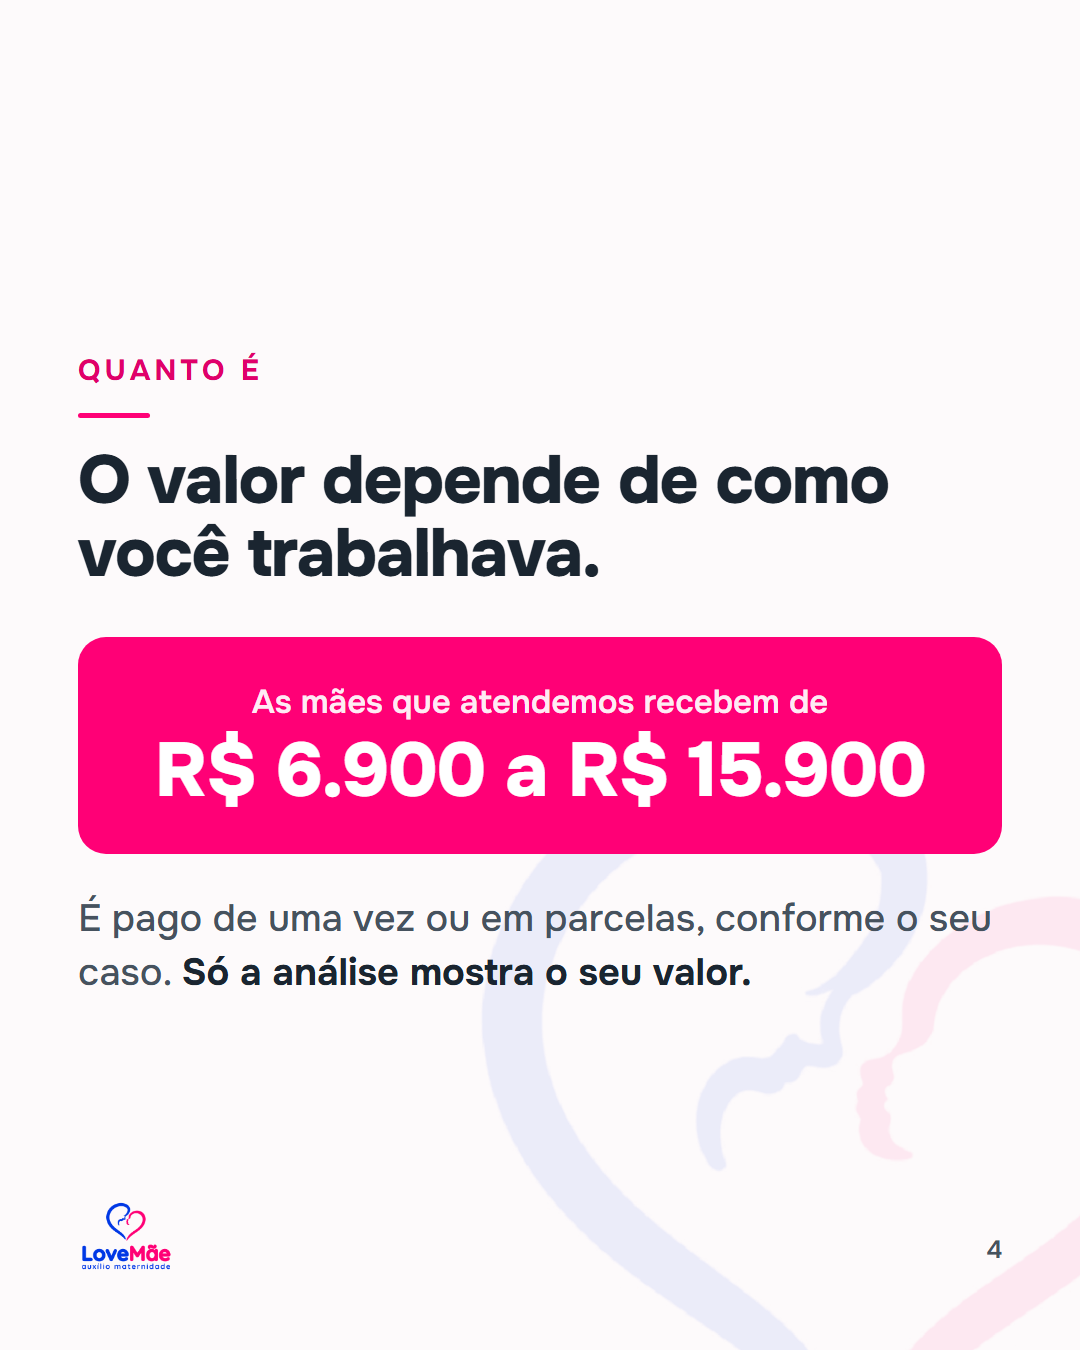
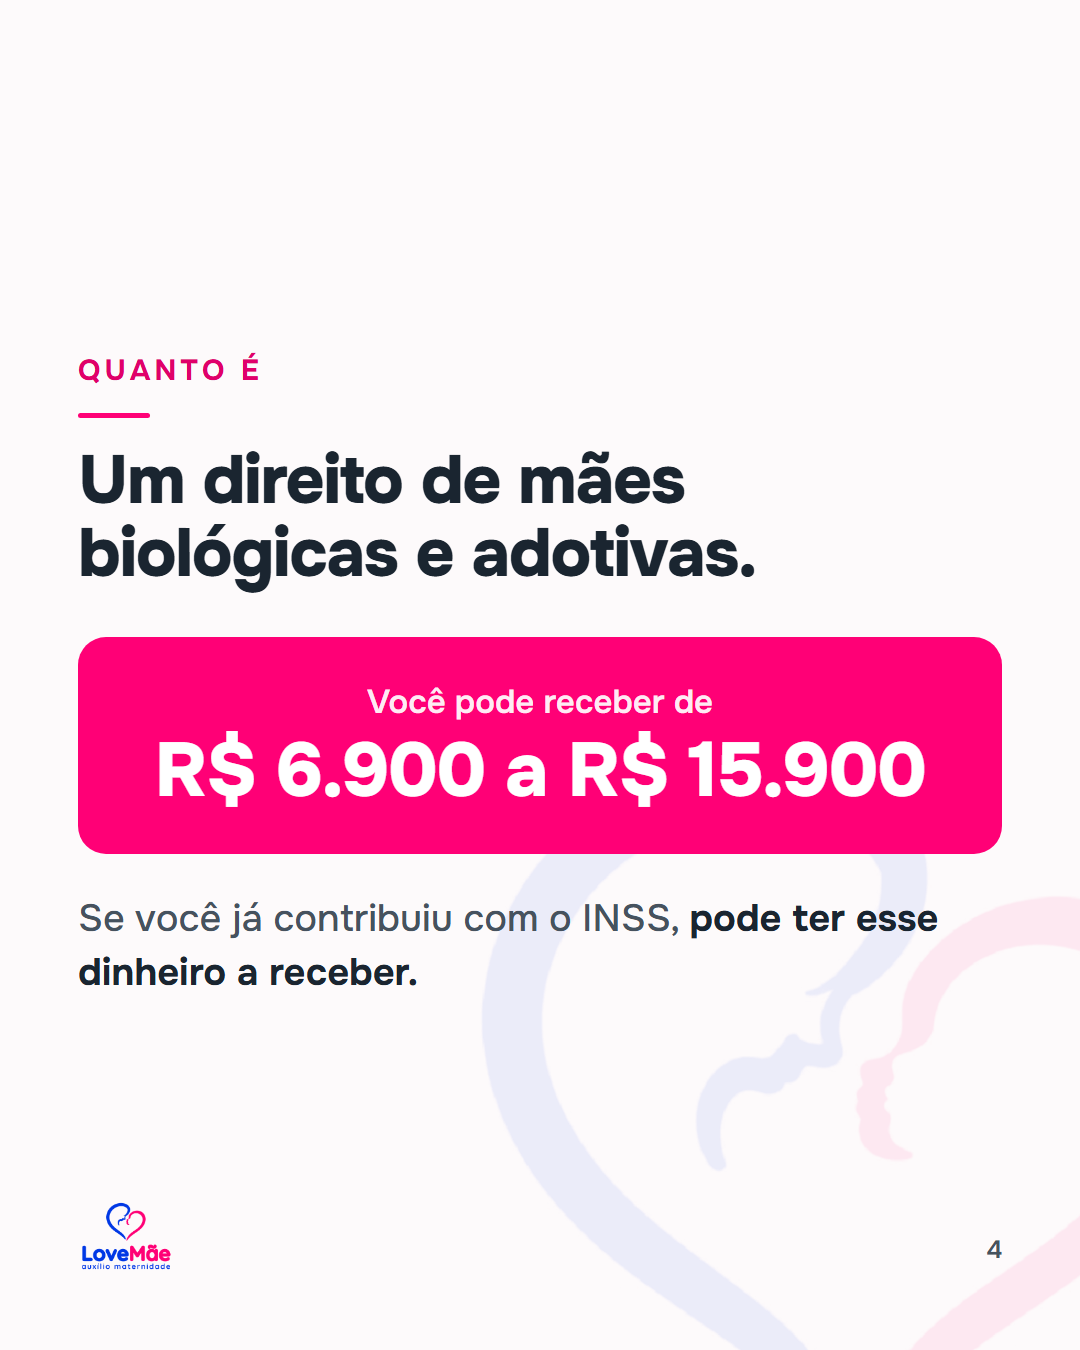
trilogia: capa rosa nos 3, copy revisada do carrossel 1 e variações do coração de fundo

Changed region(s): [[0.0611, 0.6533, 0.9167, 0.7467], [0.0611, 0.3111, 0.825, 0.4356], [0.2139, 0.4978, 0.7639, 0.5289]]

diff --git a/marketing/conteudo/carrossel-o-que-e-2026-09-17/legenda.md b/marketing/conteudo/carrossel-o-que-e-2026-09-17/legenda.md
@@ -1,7 +1,7 @@
 # Carrossel 1 da trilogia — "O que é o auxílio-maternidade?"
 
 Produzido em 17/09/2026. Post **fixado** no topo do perfil.
-5 slides, 1080×1350. Duas versões de capa (rosa e azul) — escolher uma antes de publicar.
+5 slides, 1080×1350. Capa rosa (decisão de 17/09/2026).
 
 ⚠ **Antes de publicar:** o time de operação precisa conferir as regras citadas
 (parto, adoção, guarda judicial, perda gestacional e a faixa de valor).
@@ -12,16 +12,11 @@ Você sabe o que é o auxílio-maternidade? 💗
 
 É um pagamento do INSS pra você poder cuidar do seu bebê sem perder a renda. Simples assim.
 
-Mas muita mãe só descobre esse direito quando já passou do prazo — e é justamente isso que a gente quer evitar.
+Ele garante a proteção e a estabilidade financeira que a sua família precisa nesse momento tão especial — pra você focar no seu bebê com a renda protegida.
 
-Ele vale para:
-✔ parto
-✔ adoção ou guarda judicial
-✔ casos de perda gestacional
+Mas muita mãe só descobre esse direito quando já passou do prazo, e é justamente isso que a gente quer evitar.
 
-E não é só pra quem está grávida agora: se o seu bebê já nasceu, você ainda pode ter direito.
-
-As mães que atendemos recebem de R$ 6.900 a R$ 15.900, conforme o caso de cada uma.
+É um direito de mães biológicas e adotivas, e você pode receber de R$ 6.900 a R$ 15.900. Se você já contribuiu com o INSS, pode ter esse dinheiro a receber.
 
 ➡ Arraste pro lado e entenda como funciona.
 
@@ -47,8 +42,7 @@ https://www.lovemaeauxiliomaternidade.com.br/?utm_source=instagram&utm_medium=po
 
 | Slide | Arquivo |
 |---|---|
-| 1 (capa rosa) | `slide-1-capa-rosa.png` |
-| 1 (capa azul) | `slide-1-capa-azul.png` |
+| 1 (capa) | `slide-1.png` |
 | 2 — o que é | `slide-2.png` |
 | 3 — quando vale | `slide-3.png` |
 | 4 — quanto é | `slide-4.png` |

diff --git a/marketing/conteudo/carrossel-quem-tem-direito-2026-09-17/legenda.md b/marketing/conteudo/carrossel-quem-tem-direito-2026-09-17/legenda.md
@@ -1,7 +1,7 @@
 # Carrossel 2 da trilogia — "Será que eu tenho direito?"
 
 Produzido em 17/09/2026. Post **fixado** no topo do perfil (o do meio).
-7 slides, 1080×1350. Duas versões de capa (rosa e azul).
+7 slides, 1080×1350. Capa rosa (decisão de 17/09/2026).
 
 ⚠ **Antes de publicar:** o time de operação precisa conferir as regras citadas —
 carência de 10 meses para MEI/autônoma, segurada especial rural, período de graça
@@ -46,8 +46,7 @@ https://www.lovemaeauxiliomaternidade.com.br/?utm_source=instagram&utm_medium=po
 
 | Slide | Arquivo |
 |---|---|
-| 1 (capa rosa) | `slide-1-capa-rosa.png` |
-| 1 (capa azul) | `slide-1-capa-azul.png` |
+| 1 (capa) | `slide-1.png` |
 | 2 — carteira assinada | `slide-2.png` |
 | 3 — MEI e autônoma | `slide-3.png` |
 | 4 — doméstica e rural | `slide-4.png` |

diff --git a/marketing/conteudo/carrossel-como-funciona-2026-09-17/legenda.md b/marketing/conteudo/carrossel-como-funciona-2026-09-17/legenda.md
@@ -1,7 +1,7 @@
 # Carrossel 3 da trilogia — "Como funciona com a LoveMãe"
 
 Produzido em 17/09/2026. Post **fixado** no topo do perfil (o terceiro).
-6 slides, 1080×1350. Duas versões de capa (rosa e azul).
+6 slides, 1080×1350. Capa rosa (decisão de 17/09/2026).
 
 ⚠ **Antes de publicar:** o time de operação precisa confirmar que o passo a passo
 descreve o processo real (análise → contato no WhatsApp → entrada e acompanhamento no INSS).
@@ -39,8 +39,7 @@ https://www.lovemaeauxiliomaternidade.com.br/?utm_source=instagram&utm_medium=po
 
 | Slide | Arquivo |
 |---|---|
-| 1 (capa rosa) | `slide-1-capa-rosa.png` |
-| 1 (capa azul) | `slide-1-capa-azul.png` |
+| 1 (capa) | `slide-1.png` |
 | 2 — passo 1 | `slide-2.png` |
 | 3 — passo 2 | `slide-3.png` |
 | 4 — passo 3 | `slide-4.png` |
